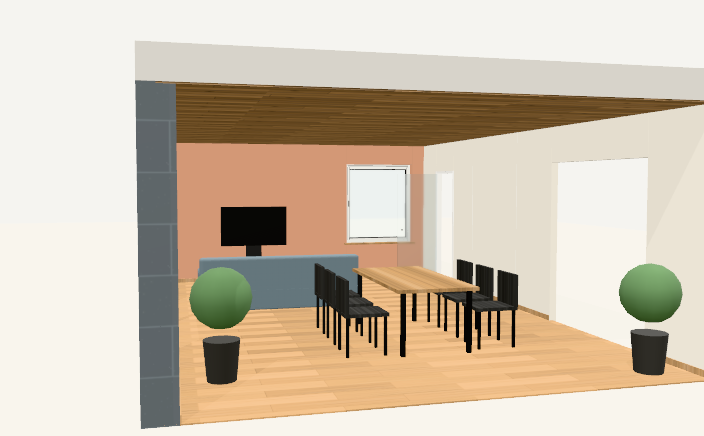
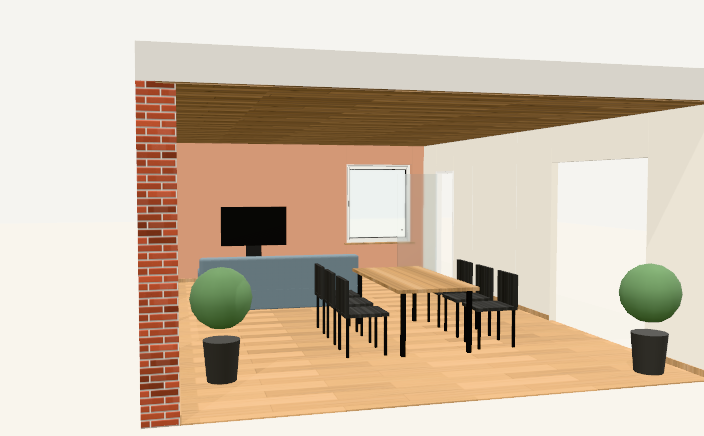
Binnenafwerking: van binnen geen sokkelsteen, het paneel ook vanuit de plattegrond (ronde 12)
In de ruimte van binnen staat de sokkel helemaal uit (eerst kreeg de hele
muur buiten de natuursteen van de sokkel); een test bewaakt het. Bekijk
van binnen vanuit de plattegrond toont nu ook het keuzepaneel onder de 3D.
De lus van de muren is terug zoals vroeger. Nagekeken in Mooi (heen en
terug pixel voor pixel gelijk) en in de klantweergave; de skill vermeldt
de stipjes op de sokkelhoogte die er ook zonder plint al waren.

Claude-Session: https://claude.ai/code/session_01PczewFp9M8BS44vqTSpk6u

Changed region(s): [[0.1875, 0.1789, 0.2812, 0.9839]]

diff --git a/packages/core/src/plattegrond.ts b/packages/core/src/plattegrond.ts
@@ -2726,7 +2726,9 @@ function niveau3D(plan: Plattegrond, cat: PlanCatalogus, opties: Plan3DOpties, z
   }
 
   // Gevelafwerking: per muurvlak (gevelontwerp) en een sokkel onderaan het gelijkvloers.
-  const sokkel = n === 0 && plan.gevelOntwerp?.sokkel && plan.gevelOntwerp.sokkel.hoogte > 0 ? plan.gevelOntwerp.sokkel : undefined;
+  // Eén ruimte van binnen (ronde 12): geen sokkel (je ziet de buitenkant niet; de naad op de sokkelhoogte liet tegen de
+  // achtergrond een lijn van stipjes door).
+  const sokkel = n === 0 && !binnen && plan.gevelOntwerp?.sokkel && plan.gevelOntwerp.sokkel.hoogte > 0 ? plan.gevelOntwerp.sokkel : undefined;
   const sokkelAfw = sokkel ? gevelAfwerking(plan, cat, sokkel) : undefined;
   /** Een bestaande muur of een muur tegen de buren: neutraal, zonder sokkel. */
   const neutraal = (m: Muur) => (oud && m.soort === 'buiten' && muurStatus(plan, m) !== 'nieuw' ? buitenAfwerking(plan, cat, m) : undefined);
@@ -2751,9 +2753,8 @@ function niveau3D(plan: Plattegrond, cat: PlanCatalogus, opties: Plan3DOpties, z
       // Eerst verlengen (ook onder een deur op de verdieping komt de rand van de vloerplaat), dan pas de maat controleren.
       if (m.soort === 'buiten' && y0 === 0 && onderkant < 0) y0 = onderkant;
       if (b - a < 0.1 || y1 - y0 < 0.1) return;
-      // Sokkel: het stuk onder de sokkelhoogte apart, met het sokkelmateriaal buiten. Niet in één ruimte van binnen: daar
-      // zie je de buitenkant niet, en de naad op de sokkelhoogte liet tegen de achtergrond een lijn van stipjes door.
-      if (m.soort === 'buiten' && sokkel && y0 < sokkel.hoogte - 0.1 && y1 > sokkel.hoogte + 0.1 && !neutraal(m) && !binnen) {
+      // Sokkel: het stuk onder de sokkelhoogte apart, met het sokkelmateriaal buiten.
+      if (m.soort === 'buiten' && sokkel && y0 < sokkel.hoogte - 0.1 && y1 > sokkel.hoogte + 0.1 && !neutraal(m)) {
         stuk(`${code}_sokkel`, a, b, y0, sokkel.hoogte);
         stuk(code, a, b, sokkel.hoogte, y1);
         return;
@@ -2832,23 +2833,17 @@ function niveau3D(plan: Plattegrond, cat: PlanCatalogus, opties: Plan3DOpties, z
       voeg(m.as === 'h' ? { ...base, x: a, z: vlak.y, b: b - a, d: vlak.d } : { ...base, x: vlak.x, z: a, b: vlak.b, d: b - a });
     };
     const openingen = plan.openingen.filter((o) => muurVanOpening(o, [m]) === m).sort((a, b) => a.midden - b.midden);
-    /** Waar de muur onder en boven een opening stopt (onder de dunste dorpel of vensterbank, boven de kast). */
-    const grenzen = (o: Opening): [number, number] => {
-      const inhoud = opties.inhoud?.(o);
-      const hoogte = inhoud?.hoogte ?? (o.soort === 'doorgang' ? o.hoogte : o.hoogte + 4);
-      // Vensterbank of dorpel: de muur eronder stopt onder de dunste ervan. Anders vallen de bovenvlakken van
-      // muur en vensterbank samen en flikkert de vensterbank in witte en donkere strepen.
-      const dorpels = (inhoud?.blokken ?? []).filter((x) => (x.code === 'vensterbank' || x.code === 'dorpel') && x.y < 0).map((x) => -x.y);
-      return [o.borstwering - (dorpels.length ? Math.min(...dorpels) : 0), Math.min(H, o.borstwering + hoogte)];
-    };
     let cursor = begin;
     for (const o of openingen) {
       const a = o.midden - o.breedte / 2, b = o.midden + o.breedte / 2;
       stuk(`muur_${m.id}_${cursor}`, cursor, a, 0, H);
       const inhoud = opties.inhoud?.(o);
-      const [onder, boven] = grenzen(o);
-      stuk(`onder_${o.id}`, a, b, 0, onder);
-      stuk(`boven_${o.id}`, a, b, boven, H);
+      const hoogte = inhoud?.hoogte ?? (o.soort === 'doorgang' ? o.hoogte : o.hoogte + 4);
+      // Vensterbank of dorpel: de muur eronder stopt onder de dunste ervan. Anders vallen de bovenvlakken van
+      // muur en vensterbank samen en flikkert de vensterbank in witte en donkere strepen.
+      const dorpels = (inhoud?.blokken ?? []).filter((x) => (x.code === 'vensterbank' || x.code === 'dorpel') && x.y < 0).map((x) => -x.y);
+      stuk(`onder_${o.id}`, a, b, 0, o.borstwering - (dorpels.length ? Math.min(...dorpels) : 0));
+      stuk(`boven_${o.id}`, a, b, Math.min(H, o.borstwering + hoogte), H);
       for (const blok of openingBlokken(o, m, inhoud, cat)) voeg(o.positie ? { ...blok, code: metDing(opties, `opening:${o.id}`, blok.code) } : blok);
       cursor = b;
     }

diff --git a/packages/core/test/binnenafwerking.test.ts b/packages/core/test/binnenafwerking.test.ts
@@ -207,6 +207,14 @@ describe('een ruimte van binnen', () => {
     const links = s.blokken.filter((b) => b.code.startsWith('ruimte:leef:links.'));
     expect(Math.max(...links.map((b) => b.z + b.d))).toBeLessThan(vloer.z + 20);
   });
+  it('van binnen geen sokkel: de muren hebben buiten hun gevel, niet de natuursteen van de sokkel', () => {
+    const { plan } = snelWoning({ breedte: 900, diepte: 1000, verdiepingen: 2 }, stijlCatalogus.klassiek!);
+    expect(plan.gevelOntwerp?.sokkel?.materiaal).toBe('natuursteen');
+    const s = ruimteVanBinnen(plan, planCatalogus, 'leef')!;
+    const soorten = s.blokken.flatMap((b) => [b.soort, ...Object.values(b.zijden ?? {}).map((z) => z.soort)]);
+    expect(soorten).not.toContain('natuursteen');
+    expect(soorten).toContain('steen');
+  });
   it('een ruimte op de verdieping staat op de grond, zonder de rand van de vloerplaat', () => {
     const { plan } = voorbeeldWoning();
     const s = ruimteVanBinnen(plan, planCatalogus, 'slk3')!;

diff --git a/packages/bouw-web/src/plattegrond-ui.ts b/packages/bouw-web/src/plattegrond-ui.ts
@@ -567,10 +567,12 @@ export function bekijkVanBinnen(id: string, open?: GevelKant) {
   volgendStandpunt = 'ooghoogte';
   ruimKader = false;
   if (weergave !== '3d') toonWeergave('3d');
-  // Het paneel van de ruimte blijft onder de 3D open: wat je kiest, zie je meteen van binnen.
+  // Het paneel van de ruimte blijft onder de 3D open: wat je kiest, zie je meteen van binnen. Expliciet getoond: kwam je
+  // uit de plattegrond, dan wacht `plan3D` al op het volgende beeld en toont het het paneel niet nog eens.
   gekozenDing = `ruimte:${id}`;
   viewer?.markeer?.(null);
   plan3D();
+  toonDingKeuzes();
 }
 
 /** Terug van de ruimte van binnen naar de woning (`opnieuw`: de 3D meteen opnieuw tekenen, schuin). */

diff --git a/.claude/skills/bouw-woning/SKILL.md b/.claude/skills/bouw-woning/SKILL.md
@@ -182,15 +182,15 @@ Jonas (17/11): *"eventueel beknopte binnenafwerking"*. Beknopt: weinig keuzes, g
 - **3D**:
   - *Accentmuur*: `wandVan(id, muur)` in `niveau3D` (ook de hoek van een schuine muur).
   - *Plint*: `plintBlokken` (in `niveau3D` na de muren, alleen met `cat.plinten` en een plint in de ruimte): een lijst van `PLINT_DIKTE` (1,2 cm) **vóór** het binnenvlak, op de vloer (1,5 cm), die muur en vloer raakt zonder erin te steken (de achterkant en onderkant kijken weg: geen flikkeren); langs het hele muurvlak (het stukje in de hoek zit onzichtbaar in de muur ernaast); onderbroken door elke opening met een borstwering lager dan de plint (deuren, doorgangen, schuiframen, ramen tot op de vloer); een schuine muur zoals een staande op dezelfde lijn, dan gedraaid. Code `plint_<ruimte>_<muur>_<k>`, ding `ruimte:<id>`. Te zien met *Muren laag* (ook in het bestand voor de klant: het pakket heeft de lage scènes).
-  - *Plafond*: in de woning zie je het niet (dicht dak, of lage muren zonder plafond), en de gewone 3D krijgt er niets bij. Het staat in **één ruimte van binnen**: `ruimteVanBinnen(plan, cat, id, { open, inhoud, meubels, dingen })` (`plattegrond.ts`) = `niveau3D` met een filter (`BinnenFilter`: alleen haar vloer, haar muren behalve die aan de kant `open`, de ramen en deuren erin, haar plint, losse wanden en meubels; geen tweede manier van tekenen) plus `plafondBlokken` (de laag van het plafond, 1,5 cm, op de as tot in de muren, lager bij een verlaagd plafond, de inbouwspots; daarboven de plaat van 30 cm, over de dichte muren; een trapgat). Gedraaid (`draaiKwart`) zodat de open kant naar +z kijkt: met het standpunt *Ooghoogte* kijk je erdoor naar binnen en zie je het plafond van onder. `openKantVan(r)`: tegenover de accentmuur, anders onder. Een ruimte op de verdieping staat op de grond (geen rand van de vloerplaat). Het kader is 8 % kleiner en 1,5 × de muurhoogte hoog (dichterbij, recht vooruit, plafond en vloer in beeld). Dingen: vloer, plafond en plint `ruimte:<id>`, een muur `ruimte:<id>:<kant>`. Alleen in deze weergave: geen sokkel op de muren (de naad op de sokkelhoogte liet tegen de effen achtergrond een lijn van stipjes door) en de kopse kanten tussen de stukken muur naast een raam of deur in de afwerking van de ruimte (anders schemerde de lichte kop van dichtbij als een haarlijn door de naad, van boven tot onder). De stukken extra knippen op de hoogtes van de openingen (geprobeerd) gaf liggende naden: niet doen.
-  - *Licht*: buiten kleurt het gras een plafond van onder groen (een wit plafond werd olijfgrijs) en de kijker kent geen licht dat via vloer en muren weerkaatst. De ruimte van binnen staat daarom op de effen achtergrond (`omgeving('geen')`) met het licht *Bewolkt* en een halve stop lichter (`BINNEN_HELDERHEID`); een wit plafond is dan lichtgrijs, hout leest als hout. Bij het verlaten terug naar `licht('studio')`, `helderheid 0`, `omgeving('buiten')`: de woning daarna is pixel voor pixel gelijk aan ervoor (nagekeken). `drie-d.ts` is niet gewijzigd.
+  - *Plafond*: in de woning zie je het niet (dicht dak, of lage muren zonder plafond), en de gewone 3D krijgt er niets bij. Het staat in **één ruimte van binnen**: `ruimteVanBinnen(plan, cat, id, { open, inhoud, meubels, dingen })` (`plattegrond.ts`) = `niveau3D` met een filter (`BinnenFilter`: alleen haar vloer, haar muren behalve die aan de kant `open`, de ramen en deuren erin, haar plint, losse wanden en meubels; geen tweede manier van tekenen) plus `plafondBlokken` (de laag van het plafond, 1,5 cm, op de as tot in de muren, lager bij een verlaagd plafond, de inbouwspots; daarboven de plaat van 30 cm, over de dichte muren; een trapgat). Gedraaid (`draaiKwart`) zodat de open kant naar +z kijkt: met het standpunt *Ooghoogte* kijk je erdoor naar binnen en zie je het plafond van onder. `openKantVan(r)`: tegenover de accentmuur, anders onder. Een ruimte op de verdieping staat op de grond (geen rand van de vloerplaat). Het kader is 8 % kleiner en 1,5 × de muurhoogte hoog (dichterbij, recht vooruit, plafond en vloer in beeld). Dingen: vloer, plafond en plint `ruimte:<id>`, een muur `ruimte:<id>:<kant>`. Alleen in deze weergave: geen sokkel (`sokkel` in `niveau3D` staat uit met het filter: de buitenkant zie je niet, en de naad op de sokkelhoogte liet tegen de effen achtergrond een lijn van stipjes door; let op: alleen de splitsing uitzetten gaf de hele muur buiten het materiaal van de sokkel) en de kopse kanten tussen de stukken muur naast een raam of deur in de afwerking van de ruimte (anders schemerde de lichte kop van dichtbij als een haarlijn door de naad, van boven tot onder). De stukken extra knippen op de hoogtes van de openingen (geprobeerd) gaf liggende naden: niet doen.
+  - *Licht*: buiten kleurt het gras een plafond van onder groen (een wit plafond werd olijfgrijs) en de kijker kent geen licht dat via vloer en muren weerkaatst. De ruimte van binnen staat daarom op de effen achtergrond (`omgeving('geen')`) met het licht *Bewolkt* en een halve stop lichter (`BINNEN_HELDERHEID`); een wit plafond is dan lichtgrijs, hout leest als hout. Bij het verlaten terug naar `licht('studio')`, `helderheid 0`, `omgeving('buiten')`: de woning daarna is pixel voor pixel gelijk aan ervoor (nagekeken in *Snel* en in *Mooi*, ook als je de ruimte verlaat via de klantweergave). `drie-d.ts` is niet gewijzigd.
 - **Scherm**:
   - *Sfeer*: de rij **Binnen** onder de stijlen in de 3D (`#pl-sferen`, `[data-sfeer="licht|hout|klassiek|industrieel"]`, een staal per sfeer: een hoek van een kamer met plafond, wanden, plint en vloer, `sfeerBeeld`) en de kaart **Binnenafwerking** naast de plattegrond (`#pl-binnen`, onder Dak, alleen in de plattegrond). In de klantweergave weg (zoals de stijlen).
   - *Per ruimte*, in het keuzepaneel van de 3D (stalen: `[data-plafond]`, `[data-plint]` met `geen`) en in het paneel van de ruimte in de plattegrond (keuzelijsten `#pl-plafond`, `#pl-plint`, `#pl-accent`): de **accentmuur** als een kruis met de vier kanten (`[data-accent-kant]`, op elke knop wat erachter ligt: de ruimte ernaast of *Gevel*, met *· raam*); een tik zet ze (met het voorstel van de sfeer), nog een tik haalt ze weg; daaronder haar afwerking (`[data-accent-wand]`). En **Bekijk van binnen (met het plafond)** (`[data-van-binnen]`).
   - *Van binnen*: de balk `#pl-binnenbalk` boven de 3D (*Van binnen: …*, **↻ Andere kant** `[data-binnen-draai]` = een andere muur open, **← Terug naar de woning** `[data-binnen-terug]`); het keuzepaneel van de ruimte blijft open (wat je kiest, zie je meteen). Een tik op een muur kiest die muur: *Deze muur* met de stalen van de wanden (`[data-muur-wand]`, een andere afwerking = accentmuur). `bekijkVanBinnen(id)` in `plattegrond-ui.ts`; weg bij een andere weergave, verdieping, project, *Muren laag*, de constructie, de techniek, *Toon in 3D* of als de ruimte verdwijnt. *Het ontwerp* in het overzicht neemt nooit dit beeld (`beeldActueel`).
 - **Overzicht en posten**: `planNaarRegels` groep **Plinten** (m, netto omtrek min de openingen tot op de vloer; met *Vloeren*) en **Plafonds** (m², netto; met *Wanden*); de m² van een accentmuur gaan van de wand van de ruimte naar haar eigen afwerking (de som blijft, getest). `binnenMaten(plan, cat, r, muren)` is de ene bron (rechthoek: de netto maat van die kant, vrije vorm: het binnenvlak, samengesteld: een benadering). Stalen in het overzicht (`regelStaal`). Posten (`posten.ts`, Binnenafwerking): **Plafondafwerking: …** (m², met *verlaagd … met inbouwspots*), **Plinten: …** (m), de accentmuur in *Wanden binnen: …* met "(accentmuur)" achter de ruimte; de post *Plafond* uit de opbouw van het platte dak zegt dan "zie Plafondafwerking". Het bestand voor de klant krijgt ze vanzelf (`klantPosten`, zonder m² of meters).
 - **Gemeten** (Playwright, tablet staand 820 × 1180 met aanraking en laptop 1440 × 900, telregels van ronde 2, vanaf de 3D na de snelstart *Woning* 9 × 10 m, 2 bouwlagen, *Klassiek*; script `meet.cjs` in de scratchpad van ronde 12): een sfeer voor de hele woning **1** tik (op beide, zonder scrollen); het plafond van de leefruimte in hout **3** via de 3D (*Muren laag*, tik op de vloer, *Hout*) en **4** om het te zien (*Bekijk van binnen*), of 4 + 1 via de plattegrond (*Plattegrond*, tik op de ruimte, de keuzelijst = 2); een accentmuur in slaapkamer 1 **4** via de 3D (*Muren laag*, *Verdieping 1*, tik op de vloer, een kant van het kruis; de afwerking komt van de sfeer, een andere kleur is één tik meer) of 4 via de plattegrond. Scrollen: op de tablet 0 via de 3D (1 via de plattegrond, naar het paneel); op de laptop 1 à 2 via de 3D (het keuzepaneel staat onder de 3D en is met vloer, wand, plafond, plint en kruis langer dan wat eronder past), 0 via de plattegrond. Op de tablet geen aanraakdoel kleiner dan 44 beeldpunten (op de laptop de knoppen van altijd). Geen fout in de pagina. Een tik op een vloer in de 3D moet de vloer zelf raken (niet een meubel of een muur).
-- **Grenzen**: het plafond zie je alleen van binnen (niet in de woning, de doorsnede, het blad of het bestand voor de klant: daar alleen in de posten); onder een hellend dak toont de 3D van binnen een vlak plafond op de muurhoogte; het plafond van binnen is lichtgrijs in plaats van wit (geen weerkaatst licht in de kijker); van binnen geen lucht door de ramen (effen achtergrond); een accentmuur geldt voor alle muren aan die kant (een L-vormige ruimte kan er twee hebben); geen plint langs een losse wand; een plint die "zoals de vloer" is, valt op dezelfde vloer weg in het beeld (zo hoort het); de m² van de accentmuur van een samengestelde ruimte zijn een benadering. Alleen bekeken in *Snel* zonder grafische kaart (swiftshader), niet in *Mooi* of WebGPU.
+- **Grenzen**: het plafond zie je alleen van binnen (niet in de woning, de doorsnede, het blad of het bestand voor de klant: daar alleen in de posten); onder een hellend dak toont de 3D van binnen een vlak plafond op de muurhoogte; het plafond van binnen is lichtgrijs in plaats van wit (geen weerkaatst licht in de kijker); van binnen geen lucht door de ramen (effen achtergrond); een accentmuur geldt voor alle muren aan die kant (een L-vormige ruimte kan er twee hebben); geen plint langs een losse wand; een plint die "zoals de vloer" is, valt op dezelfde vloer weg in het beeld (zo hoort het); de m² van de accentmuur van een samengestelde ruimte zijn een benadering. Met lage muren loopt op een buitenmuur van het gelijkvloers in de schaduw een lijn van lichte stipjes op de sokkelhoogte: die is er ook zonder plint (de naad tussen de twee stukken muur, van vroeger; niet in deze ronde opgelost, de beelden van de woning moesten gelijk blijven). Bekeken zonder grafische kaart (swiftshader) in *Snel* en *Mooi* (de referentiebeelden zijn *Mooi*), niet in WebGPU. De klantweergave toont geen sferen en geen keuzes (zoals de stijlen); de ruimte van binnen is daar niet te openen.
 - Tests: `core/test/binnenafwerking.test.ts`. Beelden: `bouw-binnenafwerking-laag`, `bouw-binnenafwerking-ruimte` (`BINNENAFWERKING` in `scripts/beeldvergelijking.mjs`).
 
 ## Dak en lichtkoepels (15/11)
